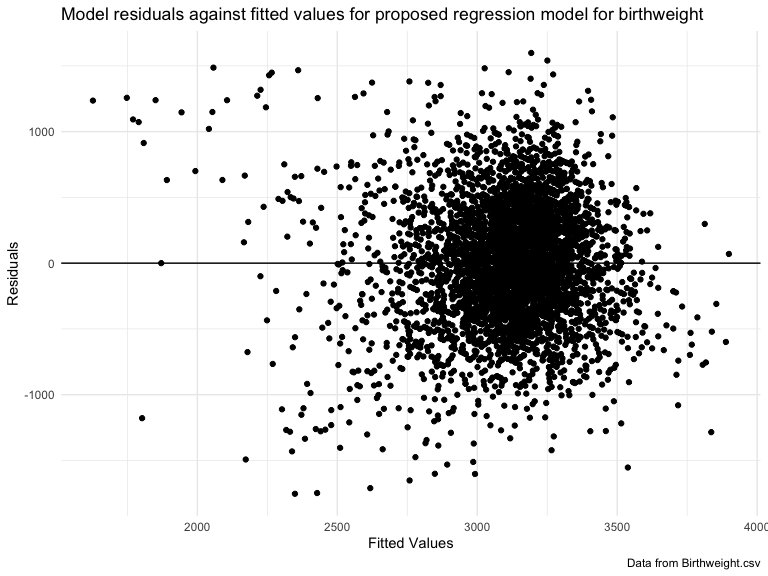
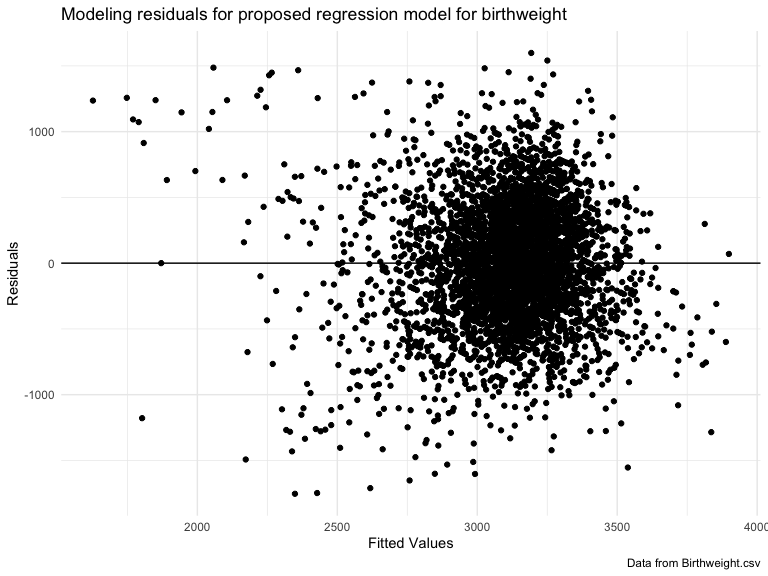
Problem 2: Final RMD

Changed region(s): [[0.125, 0.0, 0.9062, 0.0625]]

diff --git a/p8105_hw6_rac2224.md b/p8105_hw6_rac2224.md
@@ -94,7 +94,7 @@ Building regression models
     pregnancy (smoking\_during\_pregnancy), mother’s age at delivery in
     years (mother\_age), mother’s pre-pregnancy BMI
     (pre\_pregnancy\_bmi), and gestational age in weeks
-    (gestational\_age). It is hypothesized that for a one unit increase
+    (gestational\_age). It is hypothesized that for an one unit increase
     in the average number of cigarettes smoked per day during pregnancy,
     birthweight will decrease; for an increase in age at delivery in
     years, birthweight will decrease; for a one unit increase in
@@ -138,7 +138,7 @@ bwt_data %>%
   ggplot(aes(x = pred, y = resid)) + geom_point() + 
   geom_hline(aes(yintercept = 0)) + 
   labs(
-    title = "Model residuals against fitted values for proposed regression model for birthweight",
+    title = "Modeling residuals for proposed regression model for birthweight",
     y = "Residuals",
     x = "Fitted Values",
     caption = "Data from Birthweight.csv"
@@ -152,7 +152,7 @@ regression model, the residuals are scattered far away from the line
 where residuals (y) equals 0, indicating high variance and difference
 between observed and predicted values with this model.
 
-Fitting two other models
+Fitting two other models: modeling residuals against fitted values
 
 ``` r
 fit2 = lm(birthweight ~ baby_length + gestational_age, data = bwt_data)
@@ -184,7 +184,7 @@ bwt_data %>%
   ggplot(aes(x = pred, y = resid)) + geom_point() + 
   geom_hline(aes(yintercept = 0)) + 
   labs(
-    title = "Model residuals against fitted values for regression model with baby length and gestational age",
+    title = "Modeling residuals for regression model with baby length and gestational age",
     y = "Residuals",
     x = "Fitted Values",
     caption = "Data from Birthweight.csv"
@@ -243,7 +243,7 @@ bwt_data %>%
   ggplot(aes(x = pred, y = resid)) + geom_point() + 
   geom_hline(aes(yintercept = 0)) + 
   labs(
-    title = "Modeling residuals against fitted values for regression model with head size, length, and sex interaction",
+    title = "Modeling residuals for regression model with head size, length, and sex interaction",
     y = "Residuals",
     x = "Fitted Values",
     caption = "Data from Birthweight.csv"
@@ -252,16 +252,16 @@ bwt_data %>%
 
 <img src="p8105_hw6_rac2224_files/figure-gfm/unnamed-chunk-3-2.png" width="90%" />
 
-  - When modeling residuals against fitted values for regression model
-    with head size, length, and sex interaction and for the regression
-    model with interaction by baby’s head size, length, and sex, the
-    residuals are closer to the line where residuals equals zero (y=0),
-    indicating less variance with these models compared to the proposed
-    model above. These models still have reiduals that are far away from
-    0, thus variance is still moderately high with these models. The
-    model with baby’s head size, length, and sex appears to have the
-    least variance of the three models, as residual values are closer to
-    the line and fewer extreme values exist.
+  - When modeling residuals against fitted values for the regression
+    model with head size, length, and sex interaction and for the
+    regression model with baby length and gestational age main effects,
+    the residuals are closer to the line where residuals equals zero
+    (y=0), indicating less variance with these models compared to the
+    proposed model above. These models still have residuals that are far
+    away from 0, thus variance is still moderately high with these
+    models. The model with baby’s head size, length, and sex interaction
+    appears to have the least variance of the three models, as residual
+    values are closer to the line and fewer extreme values exist.
 
 Comparing regression models in terms of the cross-validated prediction
 error
@@ -376,7 +376,7 @@ calculating confidence intervals
 ``` r
 boot_straps %>%
     ggplot(aes(x = log_beta0_x_beta1)) + geom_density() + geom_vline(xintercept = 2.016) + labs(
-      title = "Distribution of log(beta0*beta1) estimates from a linear regression of tmax~tmin and 5000 bootstrap samples",
+      title = "Distribution of log(beta0*beta1) estimates from 5000 bootstrap samples",
       x = "log(beta0*beta1)",
       caption = "Data from NOAA weather dataset"
     )
@@ -387,7 +387,7 @@ boot_straps %>%
 ``` r
 boot_straps %>%
     ggplot(aes(x = r_squared)) + geom_density() + geom_vline(xintercept = .912) + labs(
-      title = "Distribution of r-squared estimates from a linear regression of tmax~tmin and 5000 bootstrap samples",
+      title = "Distribution of r-squared estimates from 5000 bootstrap samples",
       x = "R-squared",
       caption = "Data from NOAA weather dataset"
     )
@@ -403,15 +403,15 @@ Distribution of log(beta\_0\*beta\_1)
 
   - The 95% confidence interval for log(beta0xbeta1) is 1.965, 2.058,
     thus we are 95% confident that the true log(beta0xbeta1) lies
-    between
+    between 1.965 and 2.058.
 
 Distribution of r^2 estimates
 
   - The majority of r^2 estimates are centered around a r^2 value of
-    .912; however, the distribution is slightly left skewed. Regardless,
-    the high density of values around .912 provides evidence that a
-    large percent of the variation in tmax can be explained by tmin.
+    .912 and the distribution appears approximately normal. The high
+    density of values around .912 provides evidence that a large percent
+    of the variation in tmax can be explained by tmin.
 
   - The 95% confidence interval for the r\_squared estimate is 0.893,
     0.927, thus we are 95% confident that the true r\_squared value lies
-    between
+    between 0.893 and 0.927.
